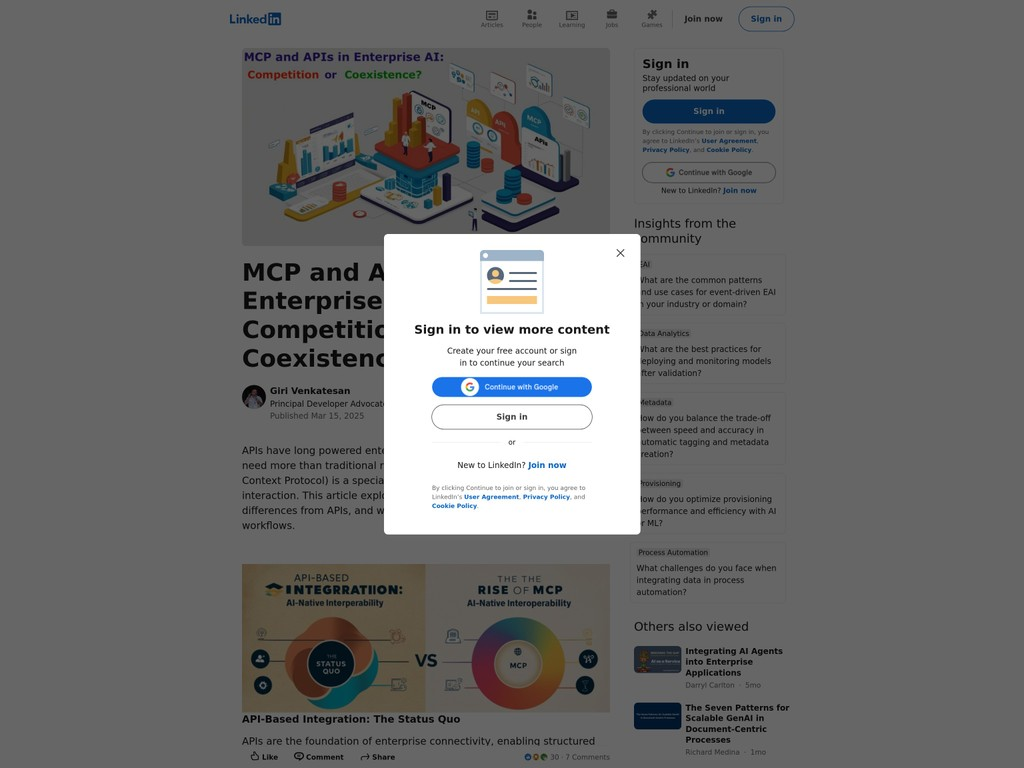
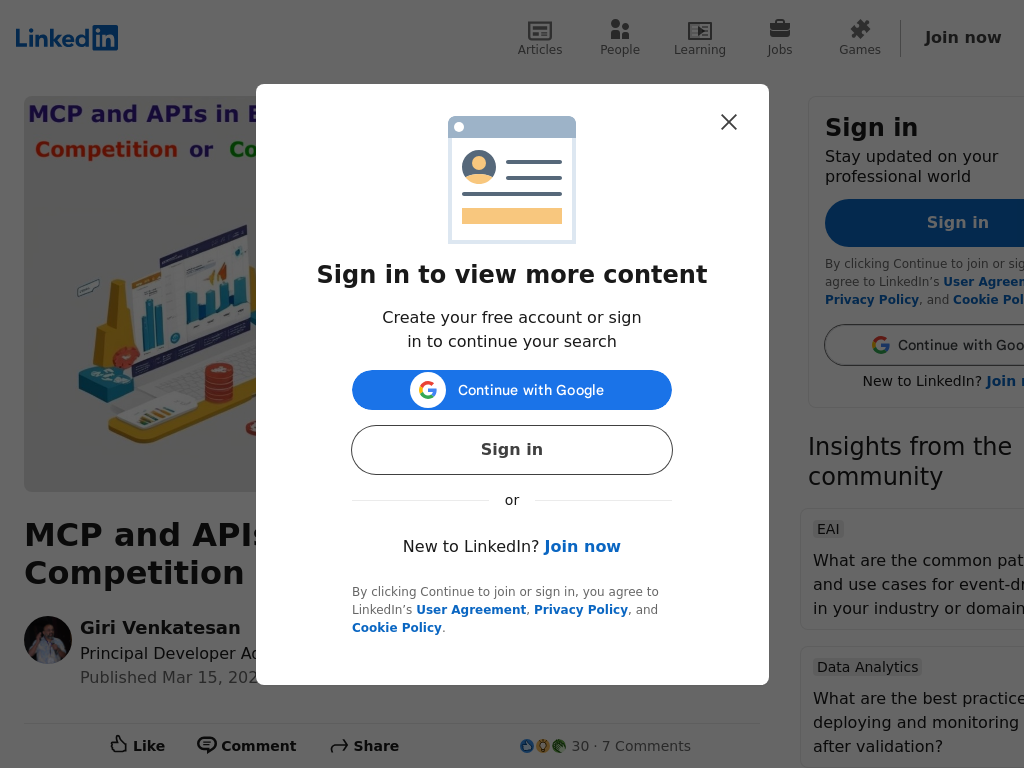
Remove intrusive LinkedIn sign-in popups and ensure clean screenshots
Adds code to cdp-thumbnail.ts to remove LinkedIn overlays during thumbnail generation.

Replit-Commit-Author: Agent
Replit-Commit-Session-Id: 02033e37-b272-43f7-a94a-686e162e3cf8
Replit-Commit-Screenshot-Url: https://storage.googleapis.com/screenshot-production-us-central1/18b0e36e-e07d-49c0-9903-08a48e3ff02a/00582863-6520-421d-8fe6-4d3085287cde.jpg

diff --git a/server/cdp-thumbnail.ts b/server/cdp-thumbnail.ts
@@ -199,6 +199,59 @@ export class CDPThumbnailService {
       // Wait for content to stabilize
       await new Promise(resolve => setTimeout(resolve, 3000));
       
+      // Remove LinkedIn overlays and sign-in modals
+      if (url.includes('linkedin.com')) {
+        try {
+          await TargetRuntime.evaluate({
+            expression: `
+              // Remove LinkedIn sign-in overlays and modals
+              const overlaySelectors = [
+                '[data-test-id="guest-homepage-basic-join-form"]',
+                '.authwall',
+                '.auth-wall',
+                '.guest-homepage-cta',
+                '.sign-in-modal',
+                '.join-form',
+                '.modal',
+                '.modal-backdrop',
+                '.overlay',
+                '[role="dialog"]',
+                '.artdeco-modal',
+                '.artdeco-modal-overlay',
+                '.contextual-sign-in-modal',
+                '.contextual-sign-in-modal__modal-container'
+              ];
+              
+              overlaySelectors.forEach(selector => {
+                const elements = document.querySelectorAll(selector);
+                elements.forEach(el => {
+                  if (el) {
+                    el.style.display = 'none';
+                    el.style.visibility = 'hidden';
+                    el.remove();
+                  }
+                });
+              });
+              
+              // Remove scroll lock from body
+              document.body.style.overflow = 'auto';
+              document.documentElement.style.overflow = 'auto';
+              
+              // Remove modal classes
+              document.body.classList.remove('modal-open', 'overflow-hidden');
+              
+              // Wait a moment for DOM changes
+              new Promise(resolve => setTimeout(resolve, 1000));
+            `,
+            awaitPromise: true,
+            timeout: 5000
+          });
+          console.log('LinkedIn overlays removed');
+        } catch (error) {
+          console.log('Failed to remove LinkedIn overlays:', error);
+        }
+      }
+      
       // Additional wait for dynamic content
       try {
         await TargetRuntime.evaluate({
